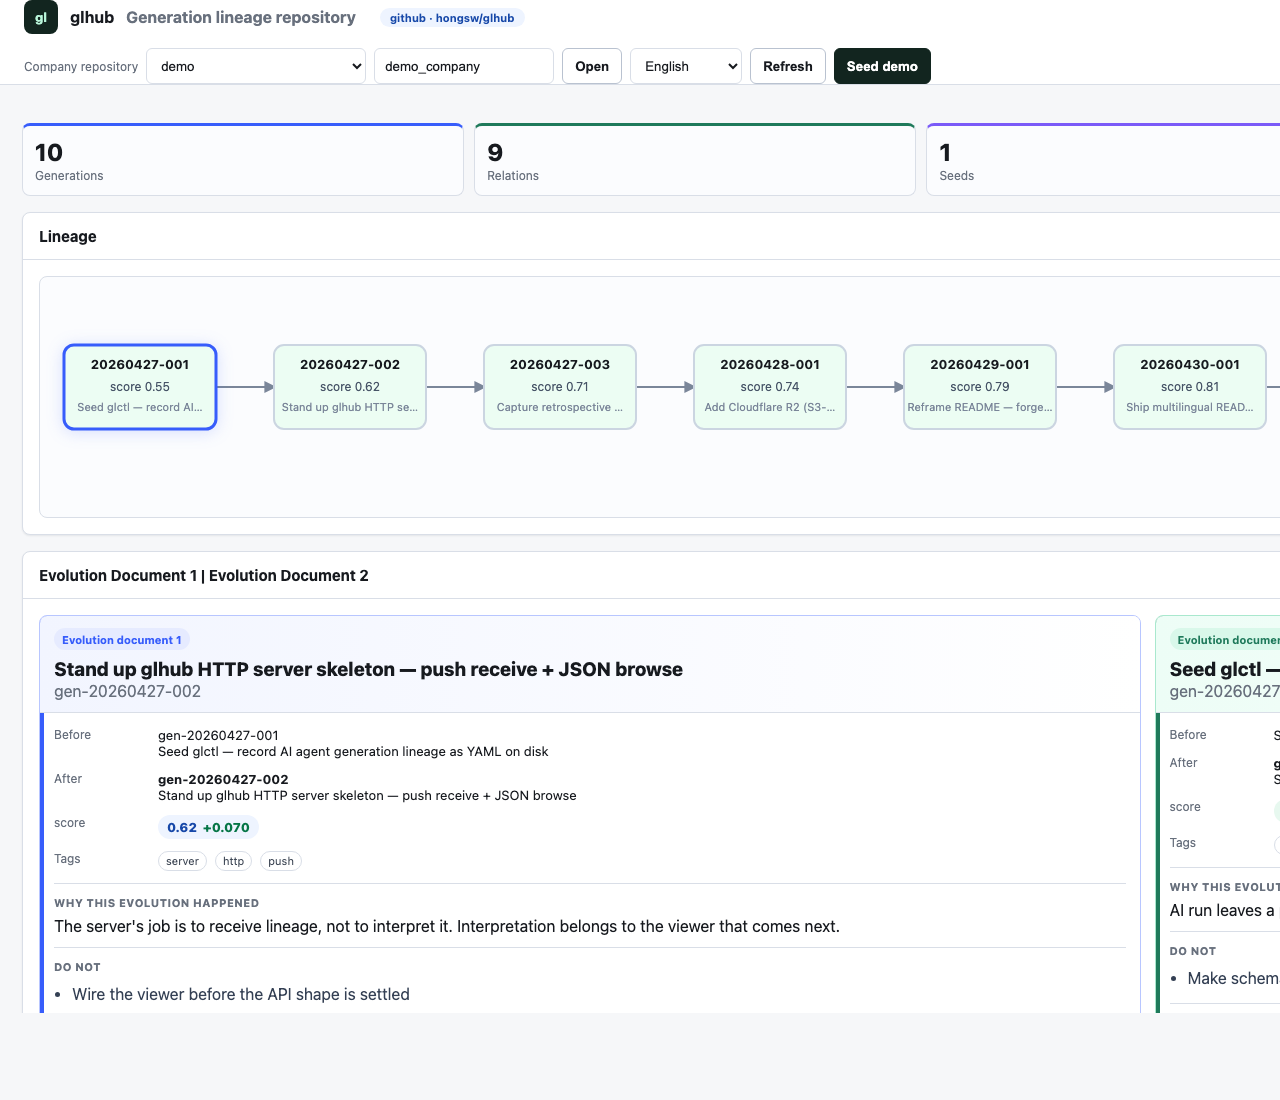
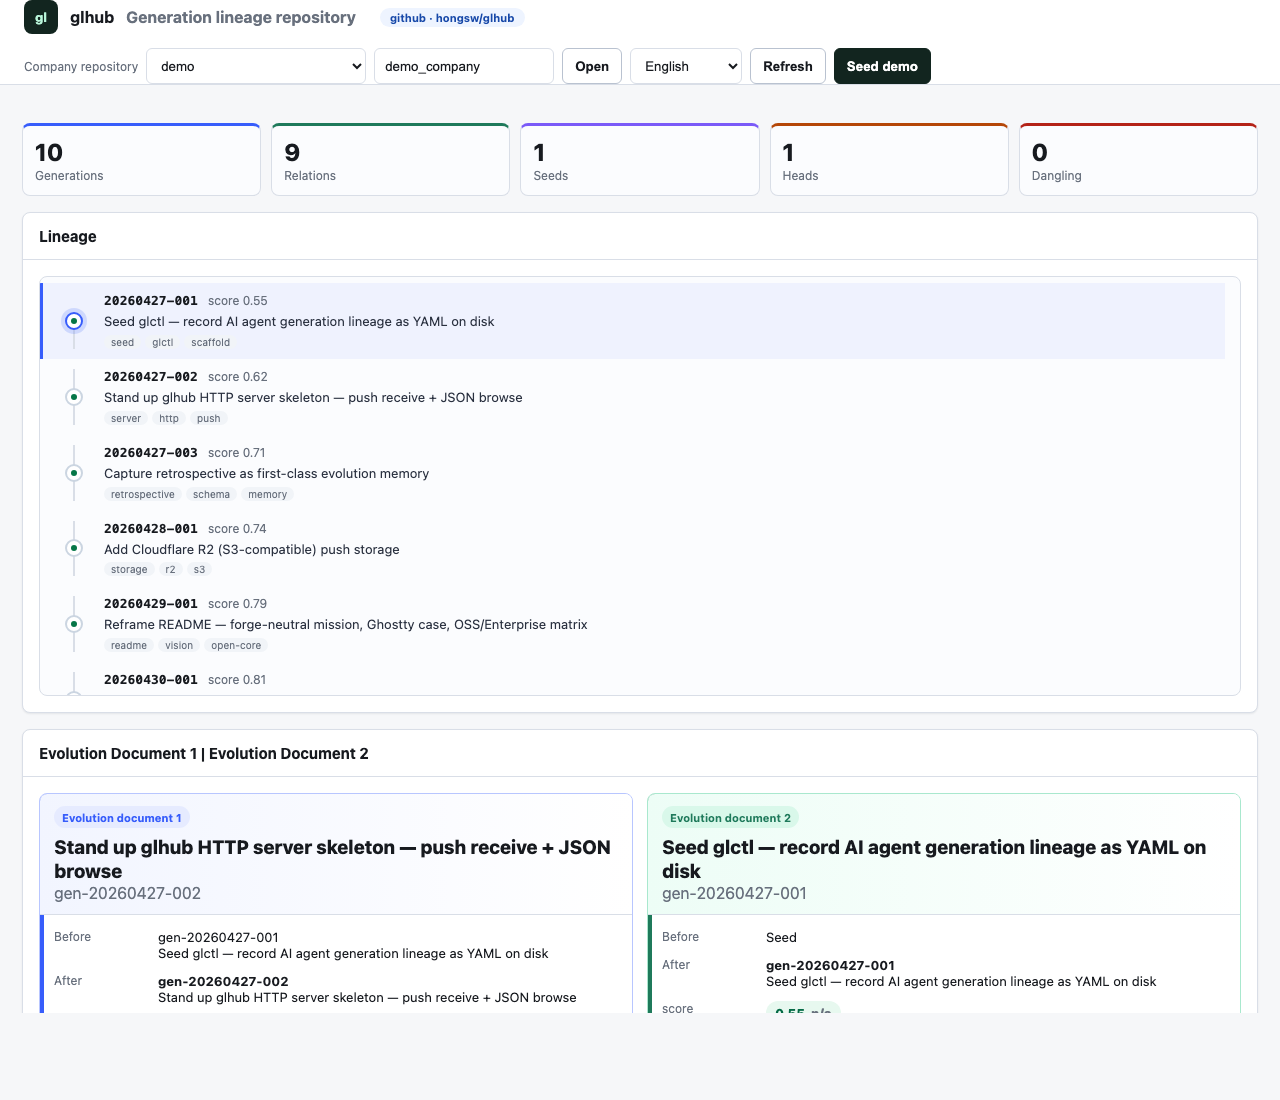
feat(viewer): vertical timeline lineage — no horizontal scroll
10세대 demo가 가로 스크롤로 보이는 게 답답하다는 피드백 반영.
SVG 가로 그래프를 HTML 세로 타임라인으로 완전 재설계.

핵심:
- 각 generation을 <li> 행으로 → rail + 마커 dot + 연결선
- 행 정보: ID(mono) · score · soul(1줄 ellipsis) · tags · branch 배지
- 선택 행: 좌측 3px 파란 accent + 마커 링 + 배경 틴트
- max-height 420px + overflow-y:auto → 패널 안에서만 스크롤,
  페이지 전체 길이 제약 유지
- 가로 스크롤 완전 제거 (overflow-x: hidden)

UX/접근성 유지:
- role="button" + tabindex=0 + aria-pressed/aria-label/title
- ↑↓←→ Home End Enter Space (수직 흐름에 맞게 매핑)
- 선택 시 scrollIntoView({block:'nearest'}, smooth/auto)
- prefers-reduced-motion 존중
- Fitt's Law: 행 패딩 10×16 + 카드 영역 = 충분한 클릭 타깃

부수:
- soul이 길어도 1줄 ellipsis로 시각 안정
- 실패 generation은 빨간 dot으로 즉시 식별
- branch 필드가 채워져 있으면 inline 파란 pill로 표시

diff --git a/src/core/viewer-script.ts b/src/core/viewer-script.ts
@@ -270,93 +270,77 @@ export const viewerScript = `
     }
     function renderGraph(lineage) {
       const nodes = lineage.nodes || [];
-      const edges = lineage.edges || [];
-      const NODE_W = 152;
-      const NODE_H = 84;
-      const STEP = 210;
-      const PAD_X = 100;
-      const ROW_Y = 110;
-      const height = 240;
-      const width = Math.max(720, nodes.length * STEP + PAD_X);
-      const positions = new Map(nodes.map((node, index) => [node.id, { x: PAD_X + index * STEP, y: ROW_Y }]));
-      const edgeSvg = edges.map((edge) => {
-        const a = positions.get(edge.from);
-        const b = positions.get(edge.to);
-        if (!a || !b) return "";
-        return '<line x1="' + (a.x + NODE_W / 2) + '" y1="' + a.y + '" x2="' + (b.x - NODE_W / 2) + '" y2="' + b.y + '" stroke="#7a8699" stroke-width="2" marker-end="url(#arrow)" />';
-      }).join("");
-      const nodeSvg = nodes.map((node) => {
-        const p = positions.get(node.id);
-        const fill = node.success ? "#ecfdf3" : "#fff1f0";
-        const stroke = node.id === state.selected ? "#375dfb" : "#cbd5e1";
-        const strokeWidth = node.id === state.selected ? "3" : "2";
+      const graphEl = $("graph");
+      if (nodes.length === 0) {
+        graphEl.innerHTML = '<div class="lineage-empty muted">' + t("noLineage") + '</div>';
+        return;
+      }
+      const ids = nodes.map((n) => n.id);
+      const items = nodes.map((node, i) => {
+        const isSelected = node.id === state.selected;
         const idLabel = node.id.replace(/^gen-/, "");
         const soulText = node.soul ? String(node.soul) : "";
-        const soulLabel = soulText.slice(0, 22);
-        const aria = idLabel + " · " + t("score") + " " + Number(node.score).toFixed(2) + (soulText ? " · " + soulText : "");
-        const isSelected = node.id === state.selected;
-        return '<g role="button" tabindex="0" aria-label="' + esc(aria) + '" aria-pressed="' + (isSelected ? "true" : "false") + '" data-id="' + node.id + '" class="node-g' + (isSelected ? " is-selected" : "") + '">' +
-          '<title>' + esc(soulText || idLabel) + '</title>' +
-          '<rect class="node-rect" x="' + (p.x - NODE_W / 2) + '" y="' + (p.y - NODE_H / 2) + '" width="' + NODE_W + '" height="' + NODE_H + '" rx="10" fill="' + fill + '" stroke="' + stroke + '" stroke-width="' + strokeWidth + '" />' +
-          '<text x="' + p.x + '" y="' + (p.y - 18) + '" text-anchor="middle" font-size="13" font-weight="700" fill="#171a1f">' + esc(idLabel) + '</text>' +
-          '<text x="' + p.x + '" y="' + (p.y + 4) + '" text-anchor="middle" font-size="12" fill="#475467">' + t("score") + ' ' + Number(node.score).toFixed(2) + '</text>' +
-          (soulLabel ? '<text x="' + p.x + '" y="' + (p.y + 24) + '" text-anchor="middle" font-size="11" fill="#7a8699">' + esc(soulLabel) + (soulText.length > 22 ? "…" : "") + '</text>' : '') +
-          '</g>';
+        const aria = idLabel + " · " + t("score") + " " + Number(node.score).toFixed(2) + (soulText ? " · " + tc(soulText) : "");
+        const tagBadges = (node.tags || []).slice(0, 5).map((tag) => '<span class="lineage-tag">' + esc(tag) + '</span>').join("");
+        const branchBadge = node.branch ? '<span class="lineage-branch">' + esc(node.branch) + '</span>' : "";
+        const dotClass = node.success ? "ok" : "bad";
+        const railCls = (i === 0 ? " first" : "") + (i === nodes.length - 1 ? " last" : "");
+        const rowCls = "lineage-row" + (isSelected ? " is-selected" : "");
+        return '<li class="' + rowCls + '"' +
+          ' role="button" tabindex="0"' +
+          ' data-id="' + node.id + '"' +
+          ' aria-pressed="' + (isSelected ? "true" : "false") + '"' +
+          ' aria-label="' + esc(aria) + '"' +
+          ' title="' + esc(soulText || idLabel) + '">' +
+          '<div class="lineage-rail' + railCls + '">' +
+            '<span class="lineage-marker"><span class="lineage-dot ' + dotClass + '"></span></span>' +
+          '</div>' +
+          '<div class="lineage-card">' +
+            '<div class="lineage-meta">' +
+              '<span class="lineage-id">' + esc(idLabel) + '</span>' +
+              '<span class="lineage-score">' + t("score") + " " + Number(node.score).toFixed(2) + '</span>' +
+              branchBadge +
+            '</div>' +
+            (soulText ? '<div class="lineage-soul">' + esc(tc(soulText)) + '</div>' : '') +
+            (tagBadges ? '<div class="lineage-tags">' + tagBadges + '</div>' : '') +
+          '</div>' +
+        '</li>';
       }).join("");
-      const graphEl = $("graph");
-      graphEl.innerHTML = '<svg viewBox="0 0 ' + width + ' ' + height + '" width="' + width + '" height="' + height + '" xmlns="http://www.w3.org/2000/svg" style="display:block">' +
-        '<defs><marker id="arrow" viewBox="0 0 10 10" refX="8" refY="5" markerWidth="6" markerHeight="6" orient="auto-start-reverse"><path d="M 0 0 L 10 5 L 0 10 z" fill="#7a8699"/></marker></defs>' +
-        edgeSvg + nodeSvg + '</svg>';
-      const nodeEls = graphEl.querySelectorAll("g[data-id]");
-      const ids = nodes.map((n) => n.id);
-      const focusNode = (id) => {
-        const el = graphEl.querySelector('g[data-id="' + id + '"]');
+      graphEl.innerHTML = '<ol class="lineage-list">' + items + '</ol>';
+      const rowEls = graphEl.querySelectorAll(".lineage-row");
+      const focusRow = (id) => {
+        const el = graphEl.querySelector('.lineage-row[data-id="' + id + '"]');
         if (el && typeof el.focus === "function") el.focus({ preventScroll: true });
       };
-      nodeEls.forEach((el) => {
+      rowEls.forEach((el) => {
         el.addEventListener("click", () => selectGeneration(el.getAttribute("data-id")));
         el.addEventListener("keydown", (e) => {
           const idx = ids.indexOf(el.getAttribute("data-id"));
-          if (e.key === "Enter" || e.key === " ") {
+          let nextId = null;
+          if (e.key === "Enter" || e.key === " ") { e.preventDefault(); selectGeneration(el.getAttribute("data-id")); return; }
+          if ((e.key === "ArrowDown" || e.key === "ArrowRight") && idx < ids.length - 1) nextId = ids[idx + 1];
+          if ((e.key === "ArrowUp"   || e.key === "ArrowLeft")  && idx > 0)               nextId = ids[idx - 1];
+          if (e.key === "Home" && ids.length > 0) nextId = ids[0];
+          if (e.key === "End"  && ids.length > 0) nextId = ids[ids.length - 1];
+          if (nextId) {
             e.preventDefault();
-            selectGeneration(el.getAttribute("data-id"));
-          } else if (e.key === "ArrowRight" && idx < ids.length - 1) {
-            e.preventDefault();
-            const nextId = ids[idx + 1];
             selectGeneration(nextId);
-            focusNode(nextId);
-          } else if (e.key === "ArrowLeft" && idx > 0) {
-            e.preventDefault();
-            const prevId = ids[idx - 1];
-            selectGeneration(prevId);
-            focusNode(prevId);
-          } else if (e.key === "Home" && ids.length > 0) {
-            e.preventDefault();
-            selectGeneration(ids[0]);
-            focusNode(ids[0]);
-          } else if (e.key === "End" && ids.length > 0) {
-            e.preventDefault();
-            selectGeneration(ids[ids.length - 1]);
-            focusNode(ids[ids.length - 1]);
+            focusRow(nextId);
           }
         });
       });
-      if (state.selected && positions.has(state.selected)) {
-        const targetX = positions.get(state.selected).x;
-        const cw = graphEl.clientWidth || 720;
-        const left = Math.max(0, Math.min(width - cw, targetX - cw / 2));
-        const reduceMotion = typeof window !== "undefined" && window.matchMedia && window.matchMedia("(prefers-reduced-motion: reduce)").matches;
-        const useSmooth = state._graphCentered && !reduceMotion;
-        if (typeof graphEl.scrollTo === "function") {
+      if (state.selected) {
+        const sel = graphEl.querySelector('.lineage-row[data-id="' + state.selected + '"]');
+        if (sel && typeof sel.scrollIntoView === "function") {
+          const reduceMotion = typeof window !== "undefined" && window.matchMedia && window.matchMedia("(prefers-reduced-motion: reduce)").matches;
+          const useSmooth = state._graphCentered && !reduceMotion;
           try {
-            graphEl.scrollTo({ left: left, behavior: useSmooth ? "smooth" : "auto" });
+            sel.scrollIntoView({ block: "nearest", behavior: useSmooth ? "smooth" : "auto" });
           } catch (_) {
-            graphEl.scrollLeft = left;
+            /* legacy browsers ignore options */
           }
-        } else {
-          graphEl.scrollLeft = left;
+          state._graphCentered = true;
         }
-        state._graphCentered = true;
       }
     }
     function renderEvolution(doc) {

diff --git a/src/core/viewer-styles.ts b/src/core/viewer-styles.ts
@@ -280,45 +280,137 @@ export const viewerStyles = `
     .graph {
       position: relative;
       width: 100%;
-      min-height: 240px;
+      min-height: 200px;
+      max-height: 420px;
       border: 1px solid var(--line);
       border-radius: 8px;
       background: #fbfcfe;
-      overflow-x: auto;
-      overflow-y: hidden;
+      overflow-x: hidden;
+      overflow-y: auto;
       scrollbar-gutter: stable;
     }
-    .graph svg {
-      max-width: none;
+    .lineage-empty {
+      padding: 24px;
+      text-align: center;
+      font-size: 13px;
     }
-    .graph .node-g {
+    .lineage-list {
+      list-style: none;
+      margin: 0;
+      padding: 6px 0;
+      display: flex;
+      flex-direction: column;
+    }
+    .lineage-row {
+      display: grid;
+      grid-template-columns: 36px minmax(0, 1fr);
+      gap: 12px;
+      padding: 10px 16px;
       cursor: pointer;
-      transition: transform 120ms ease, filter 120ms ease;
-      transform-box: fill-box;
-      transform-origin: center;
       outline: none;
+      transition: background 120ms ease;
     }
-    .graph .node-g:hover .node-rect {
-      filter: brightness(1.04);
+    .lineage-row:hover { background: rgba(55, 93, 251, 0.045); }
+    .lineage-row:focus-visible {
+      background: rgba(55, 93, 251, 0.06);
+      box-shadow: inset 3px 0 0 var(--accent-2);
     }
-    .graph .node-g:hover {
-      transform: translateY(-1px);
+    .lineage-row.is-selected {
+      background: rgba(55, 93, 251, 0.06);
+      box-shadow: inset 3px 0 0 var(--accent-2);
     }
-    .graph .node-g:focus-visible .node-rect {
-      stroke: #375dfb;
-      stroke-width: 3;
-      filter: drop-shadow(0 0 0 3px rgba(55, 93, 251, 0.25));
+    .lineage-rail {
+      position: relative;
+      display: grid;
+      place-items: center;
+      align-self: stretch;
     }
-    .graph .node-g.is-selected .node-rect {
-      filter: drop-shadow(0 2px 8px rgba(55, 93, 251, 0.18));
+    .lineage-rail::before {
+      content: "";
+      position: absolute;
+      top: 0;
+      bottom: 0;
+      left: 50%;
+      width: 2px;
+      background: var(--line);
+      transform: translateX(-50%);
+    }
+    .lineage-rail.first::before { top: 50%; }
+    .lineage-rail.last::before { bottom: 50%; }
+    .lineage-marker {
+      position: relative;
+      z-index: 1;
+      width: 18px;
+      height: 18px;
+      border-radius: 999px;
+      background: #fff;
+      border: 2px solid #cbd5e1;
+      display: grid;
+      place-items: center;
+      transition: border-color 120ms ease, box-shadow 120ms ease;
+    }
+    .lineage-row.is-selected .lineage-marker {
+      border-color: var(--accent-2);
+      box-shadow: 0 0 0 4px rgba(55, 93, 251, 0.18);
+    }
+    .lineage-dot {
+      width: 6px;
+      height: 6px;
+      border-radius: 999px;
+    }
+    .lineage-dot.ok { background: var(--good); }
+    .lineage-dot.bad { background: var(--bad); }
+    .lineage-card {
+      min-width: 0;
+      display: flex;
+      flex-direction: column;
+      gap: 4px;
+    }
+    .lineage-meta {
+      display: flex;
+      gap: 10px;
+      align-items: baseline;
+      flex-wrap: wrap;
+    }
+    .lineage-id {
+      font-family: ui-monospace, SFMono-Regular, Menlo, monospace;
+      font-weight: 700;
+      font-size: 13px;
+      color: var(--ink);
+    }
+    .lineage-score { font-size: 12px; color: var(--muted); }
+    .lineage-branch {
+      font-size: 11px;
+      color: #1849a9;
+      background: #eef4ff;
+      padding: 1px 8px;
+      border-radius: 999px;
+    }
+    .lineage-soul {
+      font-size: 13px;
+      color: #2a3140;
+      line-height: 1.45;
+      overflow: hidden;
+      text-overflow: ellipsis;
+      display: -webkit-box;
+      -webkit-line-clamp: 1;
+      -webkit-box-orient: vertical;
+    }
+    .lineage-tags {
+      display: flex;
+      gap: 4px;
+      flex-wrap: wrap;
+    }
+    .lineage-tag {
+      font-size: 10px;
+      padding: 1px 7px;
+      border-radius: 999px;
+      background: #f1f4f8;
+      color: var(--muted);
     }
     @media (prefers-reduced-motion: reduce) {
-      .graph .node-g {
-        transition: none;
-      }
-      .graph .node-g:hover {
-        transform: none;
-      }
+      .lineage-row { transition: none; }
+      .lineage-marker { transition: none; }
     }
     .status-ok { color: var(--good); font-weight: 700; }
     .status-bad { color: var(--bad); font-weight: 700; }
